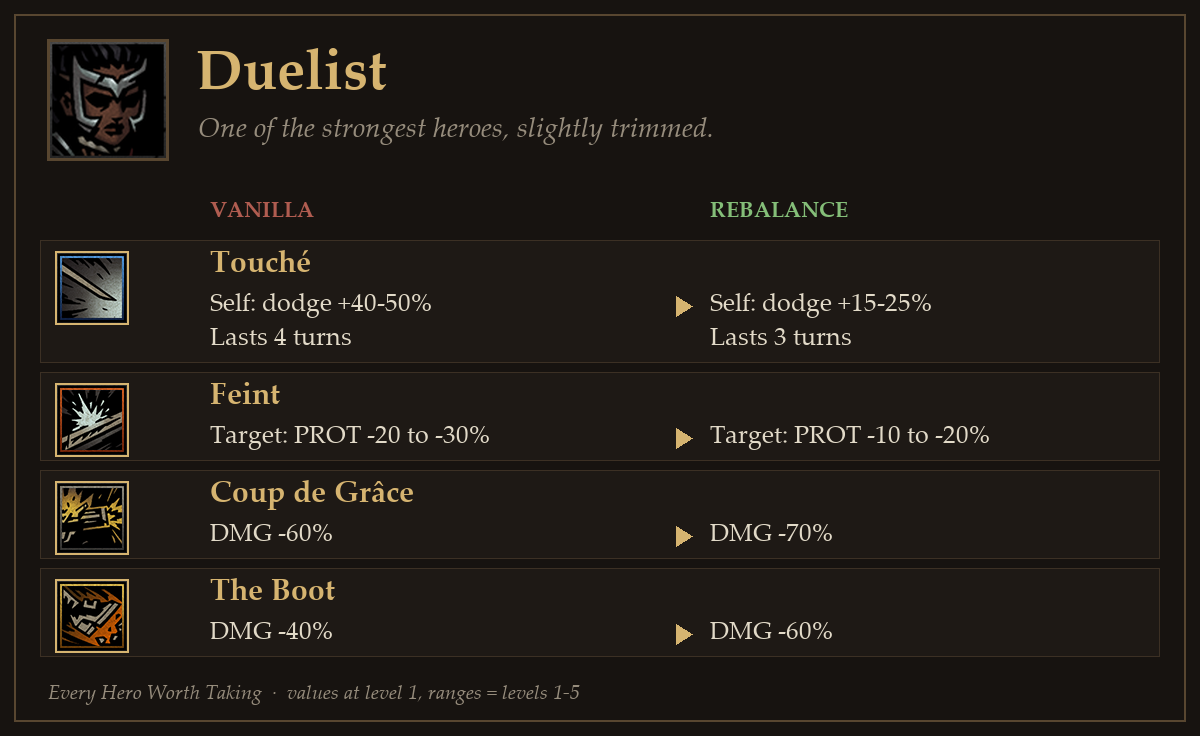
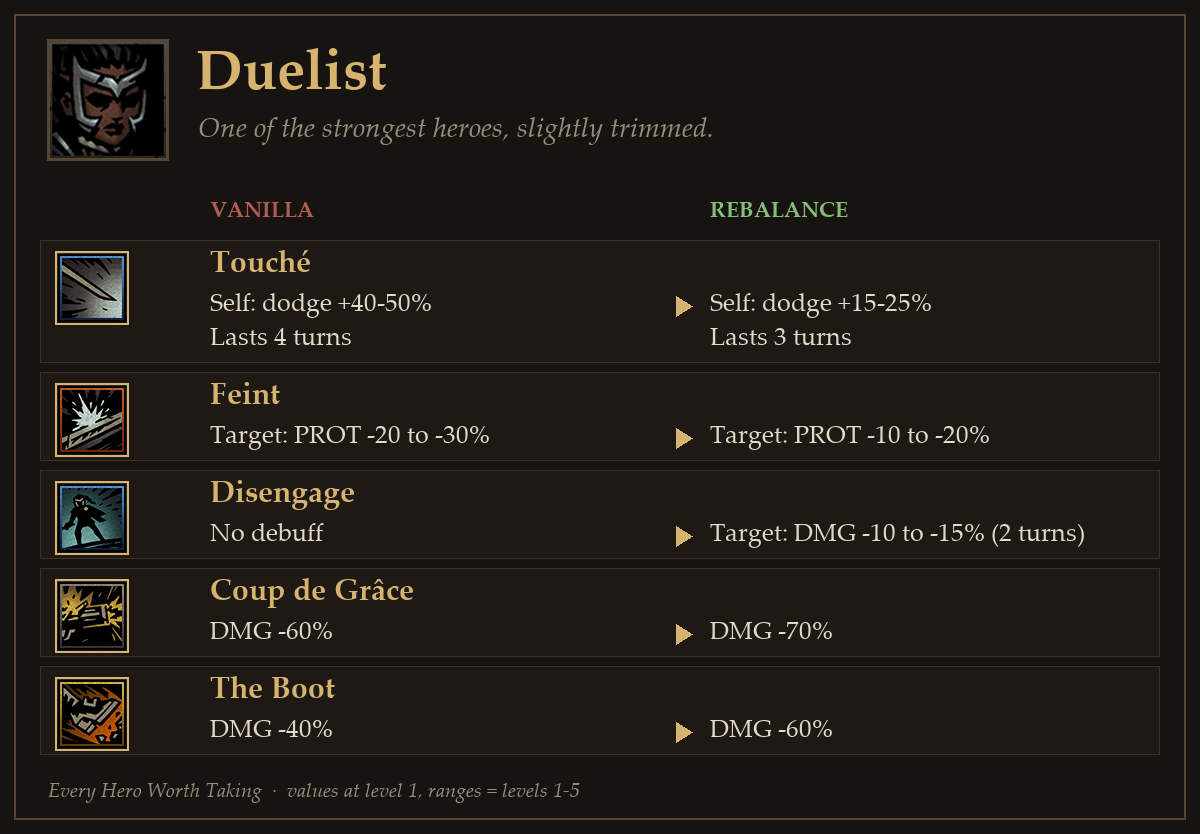
DUE-012 Disengage enemy damage -10..-15%; LEP-005 Intimidate renamed Sunder; 2.0.5 description, cards, change note

diff --git a/design/changes/duelist.md b/design/changes/duelist.md
@@ -153,3 +153,8 @@
 ### DUE-011 찌르기 회피 지속 2턴 → 3턴 (2026-10-21, test)
 - 수치 +15/17/20/22/25%는 유지, 지속만 3턴. 제작자 (나)안: "(가) 20~30×2턴 / (나) 15~25×3턴" 중 (나).
 - 근거: DUE-005의 문제는 바닐라 +40~50%(4턴)이 겹쳐 두 번만 써도 적 명중 0%(회피 100% 효과)가 되던 것 [제작자 "2번만 써도 회피 100 되어버려서 개사기"]. 지속을 늘려도 2중첩은 +30~50%로 바닐라 1회 이하라 같은 문제가 다시 생기지 않는다.
+
+### DUE-012 이탈: 적 피해 감소 추가 (2026-10-22)
+- 상태: 적용 (제작자 결정 10-22 "DISENGAGE에 피해 마이너스 붙이는 거 좋네", 수치는 Claude 계산안 동의)
+- 변경: 적 피해 −10/11/12/13/15%, 2턴, 확률 100~140% (`RB DUE Disengage Weaken 1~5`).
+- 근거: 결투가의 약화 기술이 페인트 하나뿐이라 아카데미 반지(약화 확률 +35%)가 거의 비어 있었다(lore_audit_A.md). 적 피해 감소를 거는 영웅 기술은 신비학자 약화의 저주(−10~−20%, 3턴, 모델(5렙) 약화 +36%p)와 같은 효과를 쓰는 야만인 함성뿐 — 부가 효과라 그보다 작게(2턴, 상한 −15%). 결투가는 상위권(9위)이라 이 정도가 상한.

diff --git a/design/changes/leper.md b/design/changes/leper.md
@@ -66,3 +66,8 @@
 - 바닐라: 강화(명중 +10~15, 피해 +25~35%, 치명 +7~11%)는 레벨마다 오르는데 대가(회피 −10, 받는 피해 +25%, 전투 끝까지)는 1렙부터 고정.
 - 변경: 대가도 레벨마다 성장 — 회피 −6/7/8/9/10%, 받는 피해 +15/17/20/22/25%. 5렙은 바닐라와 같음. 효과 RB LEP Vulnerability 1~5, 강화 RB_LEP_DEF_VULN·DMG_VULN 1~5.
 - 제작자 원문: "복수를 잘 안 써, 특히 초반부에 받피 25% 때문에 너무 부담. 초반부에도 전략적으로 고려될 수 있는 스킬 만드는 게 리밸런싱 목적."
+
+### LEP-005 위협 이름 변경: 갑옷 쪼개기 / Sunder (2026-10-22)
+- 상태: 적용 (제작자 결정 10-22 "A SUNDER로 가는데 … 갑옷 쪼개기로 가자")
+- 변경: 기술 이름만. `localization/rebalance_leper.string_table.xml`(13개 언어). 기능(1열→1열, 피해 −40%, 적 방어 감소 3턴)은 LEP-001~004 그대로.
+- 근거: "위협"은 바닐라의 적 피해·속도 감소에 맞는 이름이었다. 지금 기능은 갑옷을 쪼개는 일격이라 이름이 기능을 약속하게 한다(P-19). lore_audit_C.md 지적.
